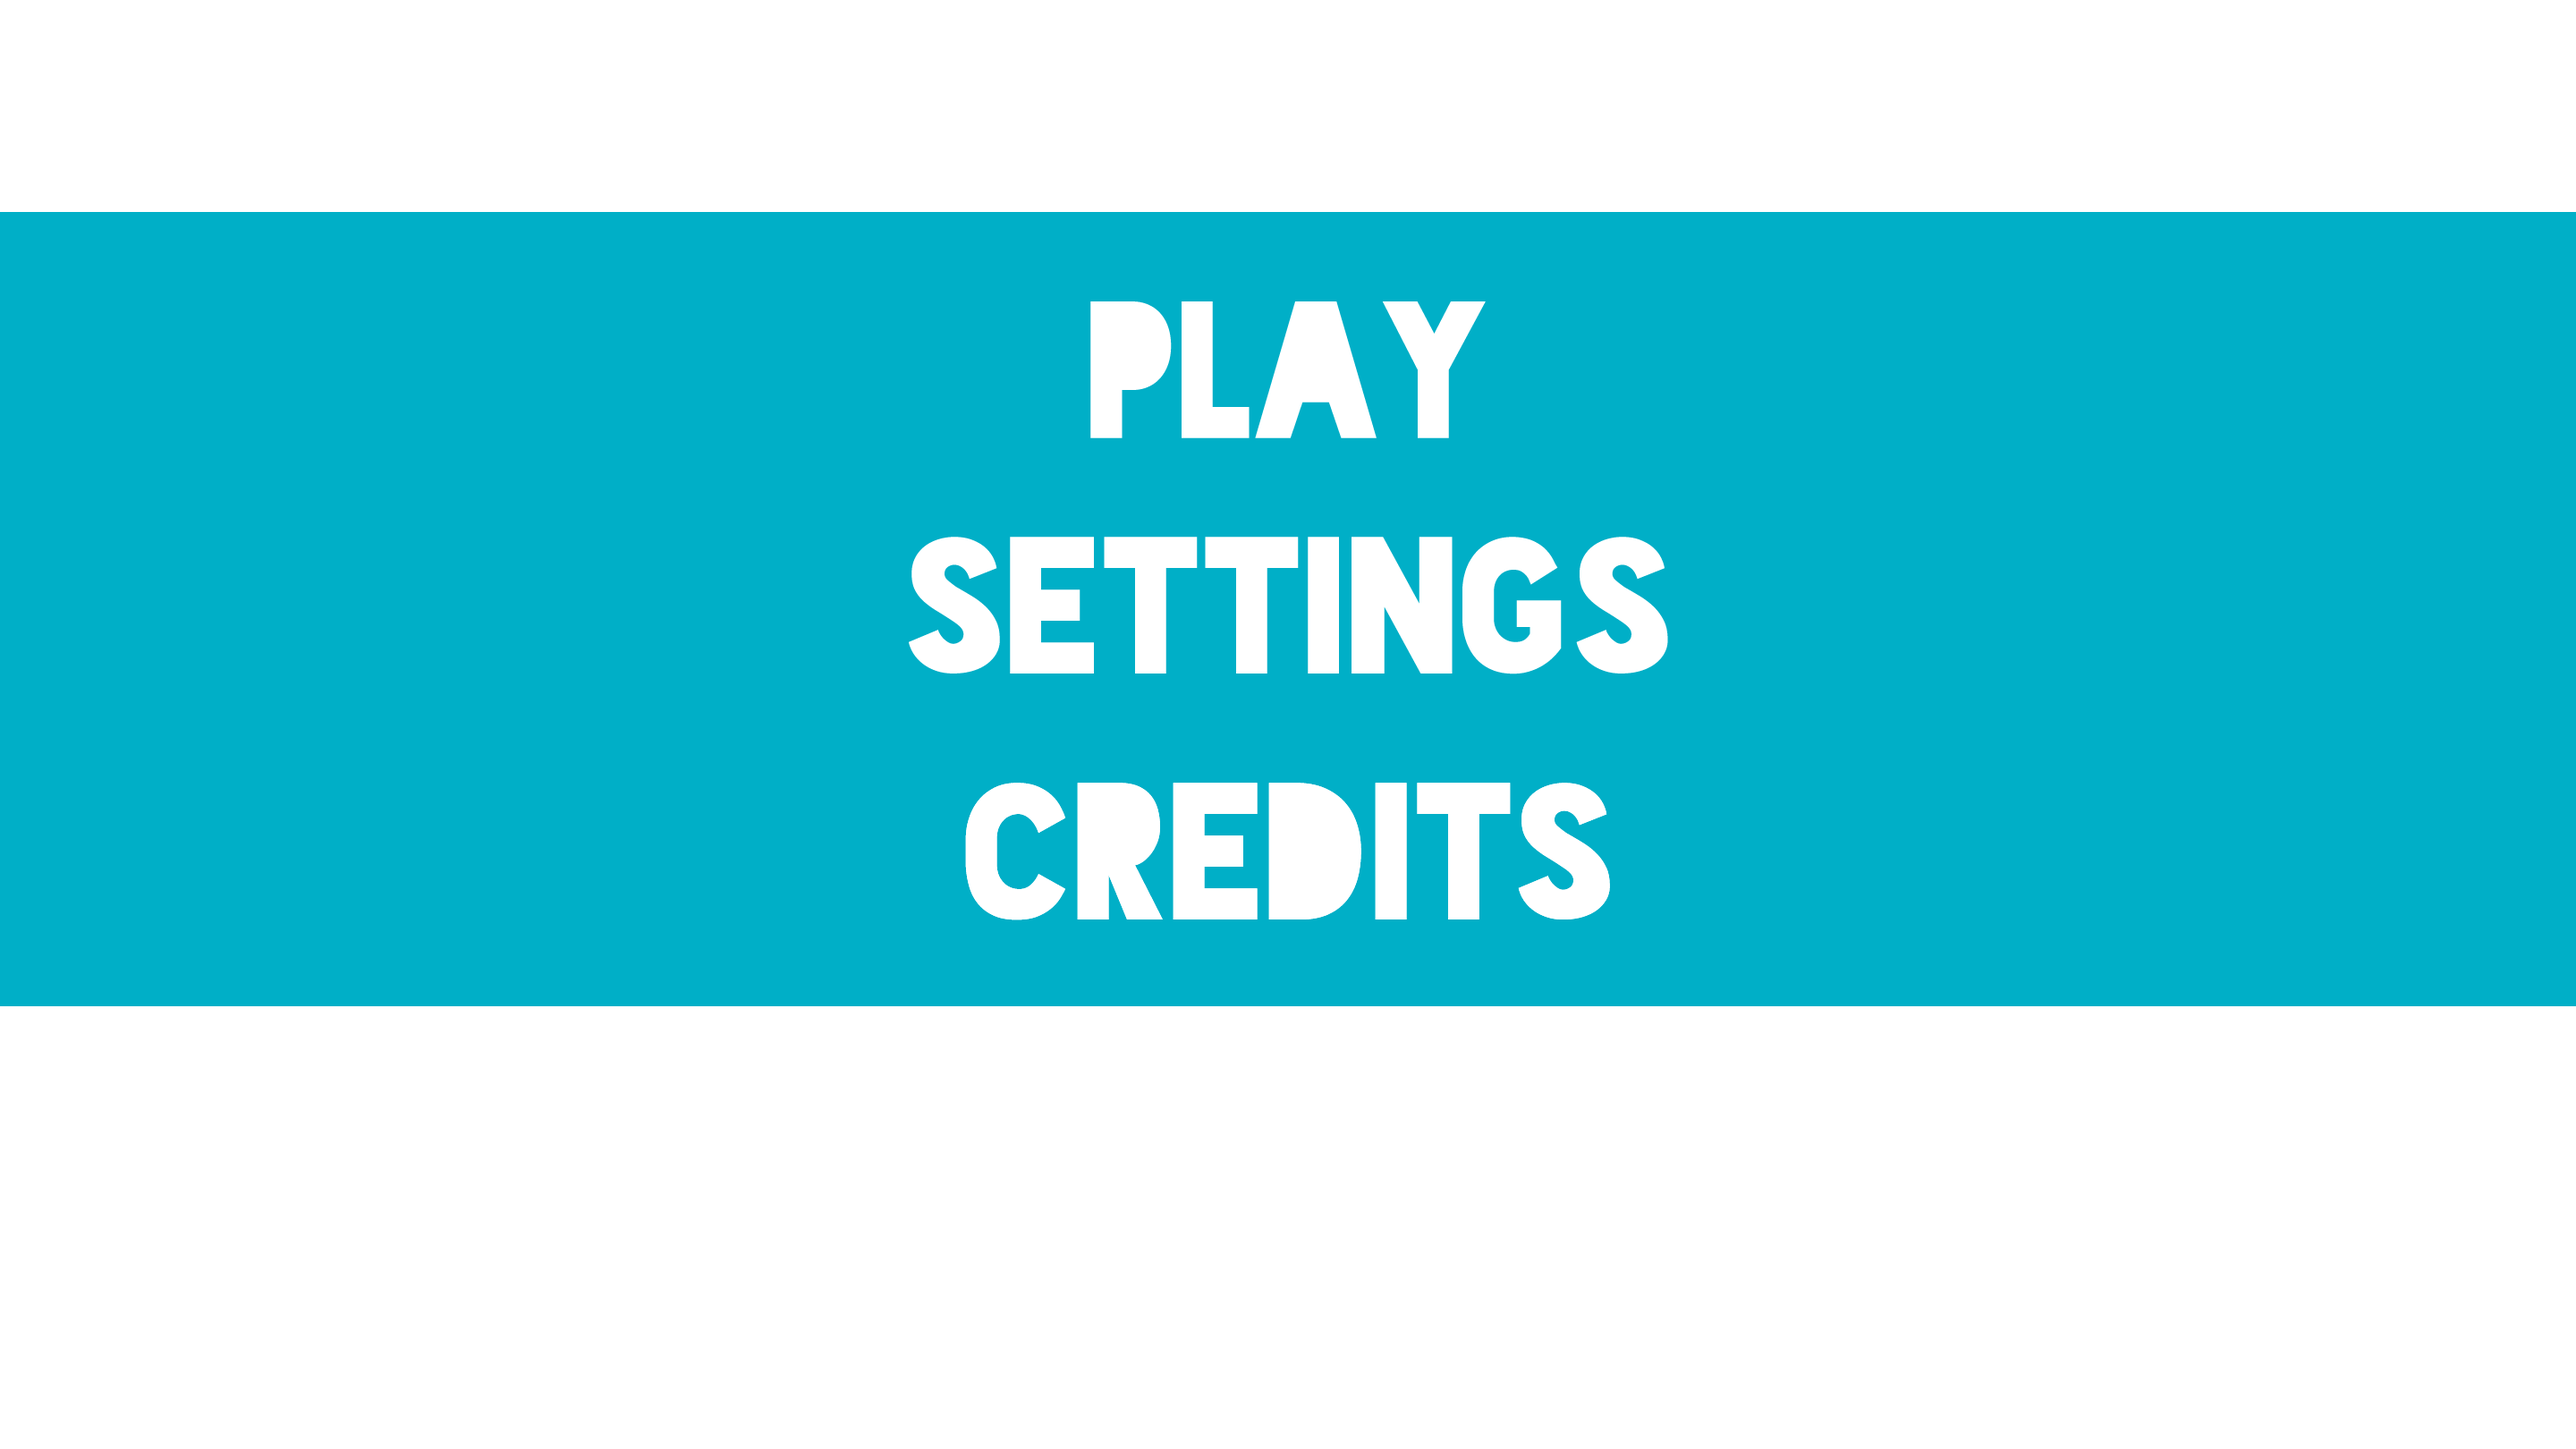
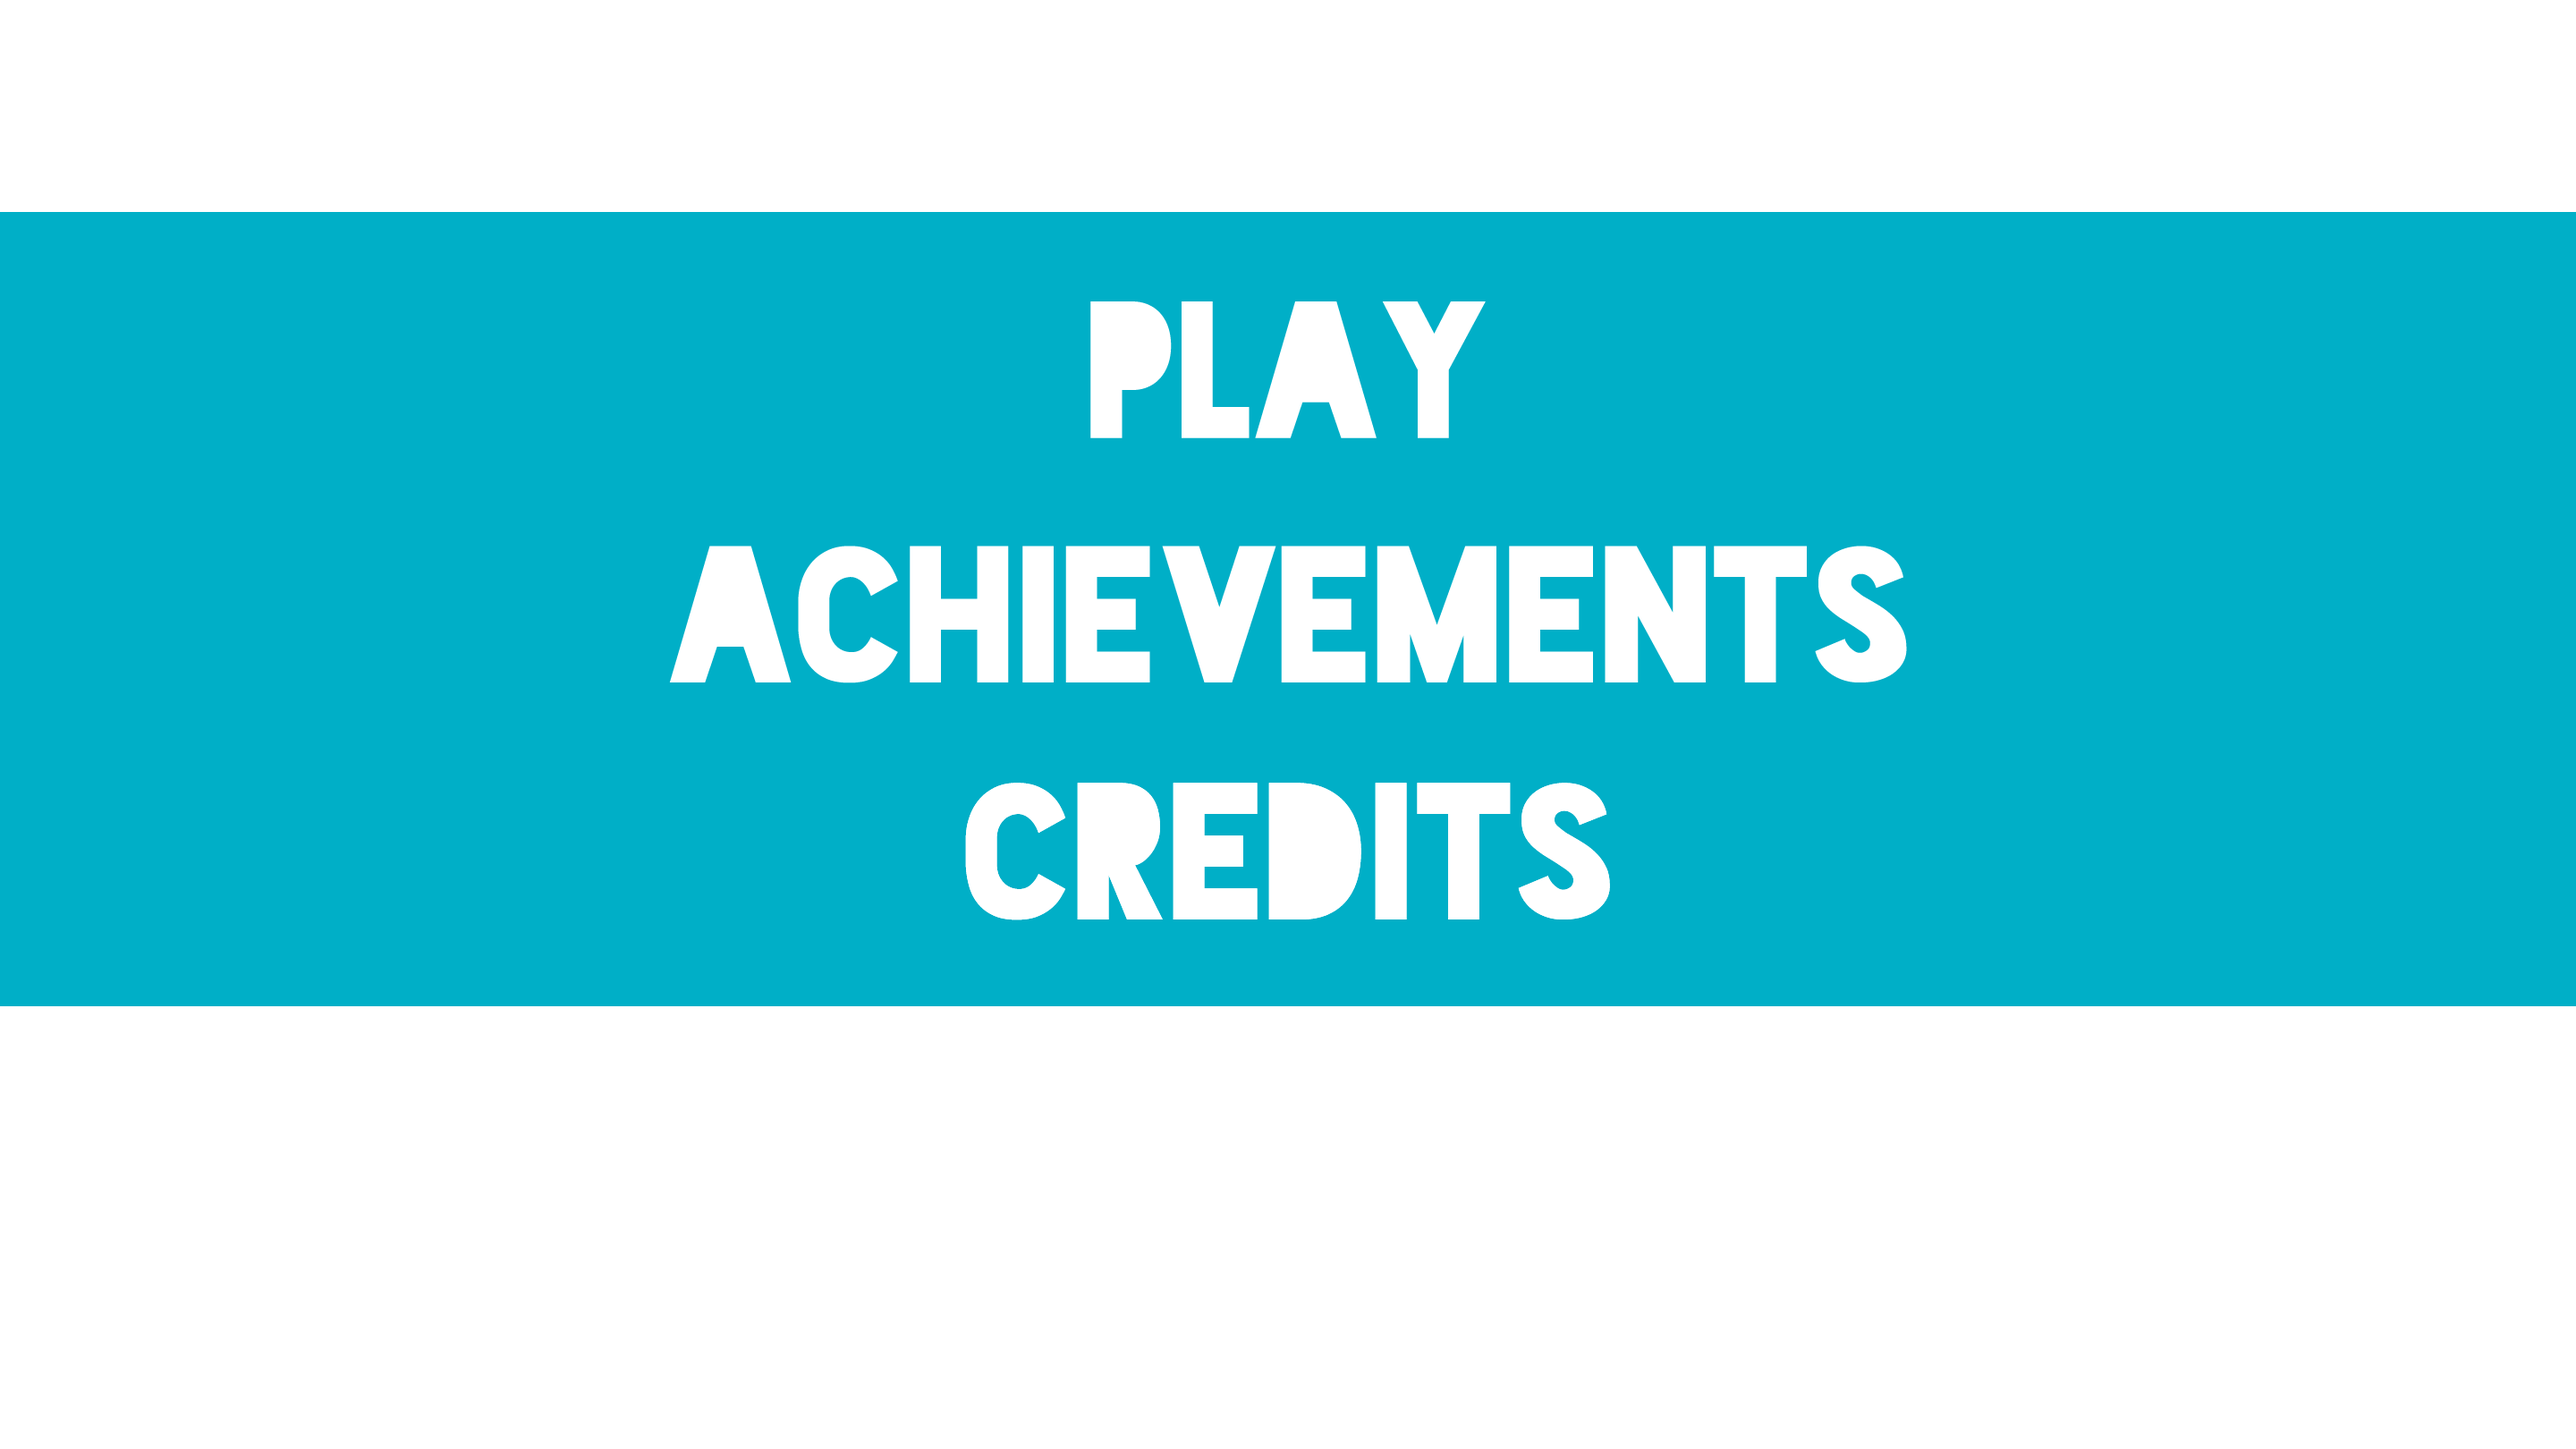
Change main menu to have achievements instead of settings

Changed region(s): [[0.25, 0.3704, 0.75, 0.4938]]

diff --git a/src/MenuState.js b/src/MenuState.js
@@ -51,9 +51,18 @@ MenuState.prototype.select = function(selected){
 }
 
 MenuState.prototype.pause = function(){
+    document.removeEventListener(this.fullscreenHandler);
 }
 
 MenuState.prototype.resume = function(){
+    var that = this;
+  this.fullscreenHandler = document.addEventListener('keypress', function(e){
+      if(e.keyCode == 13 && that.selected == 0){
+        document.body.requestFullscreen && document.body.requestFullscreen();
+        document.body.webkitRequestFullscreen && document.body.webkitRequestFullscreen(); 
+        document.body.mozRequestFullscreen && document.body.mozRequestFullScreen();
+      }
+  });
 }
 
 MenuState.prototype.render = function(ctx){
@@ -78,7 +87,7 @@ MenuState.prototype.render = function(ctx){
   ctx.restore();
 
   ctx.fillStyle = '#8742d1';
-  ctx.fillRect(0, this.y*GU, 16*GU, 0.93*GU);
+  ctx.fillRect(0, this.y*GU, 16*GU, GU);
 
   ctx.save();
   var scaler = 16*GU/this.bg_img.width;
